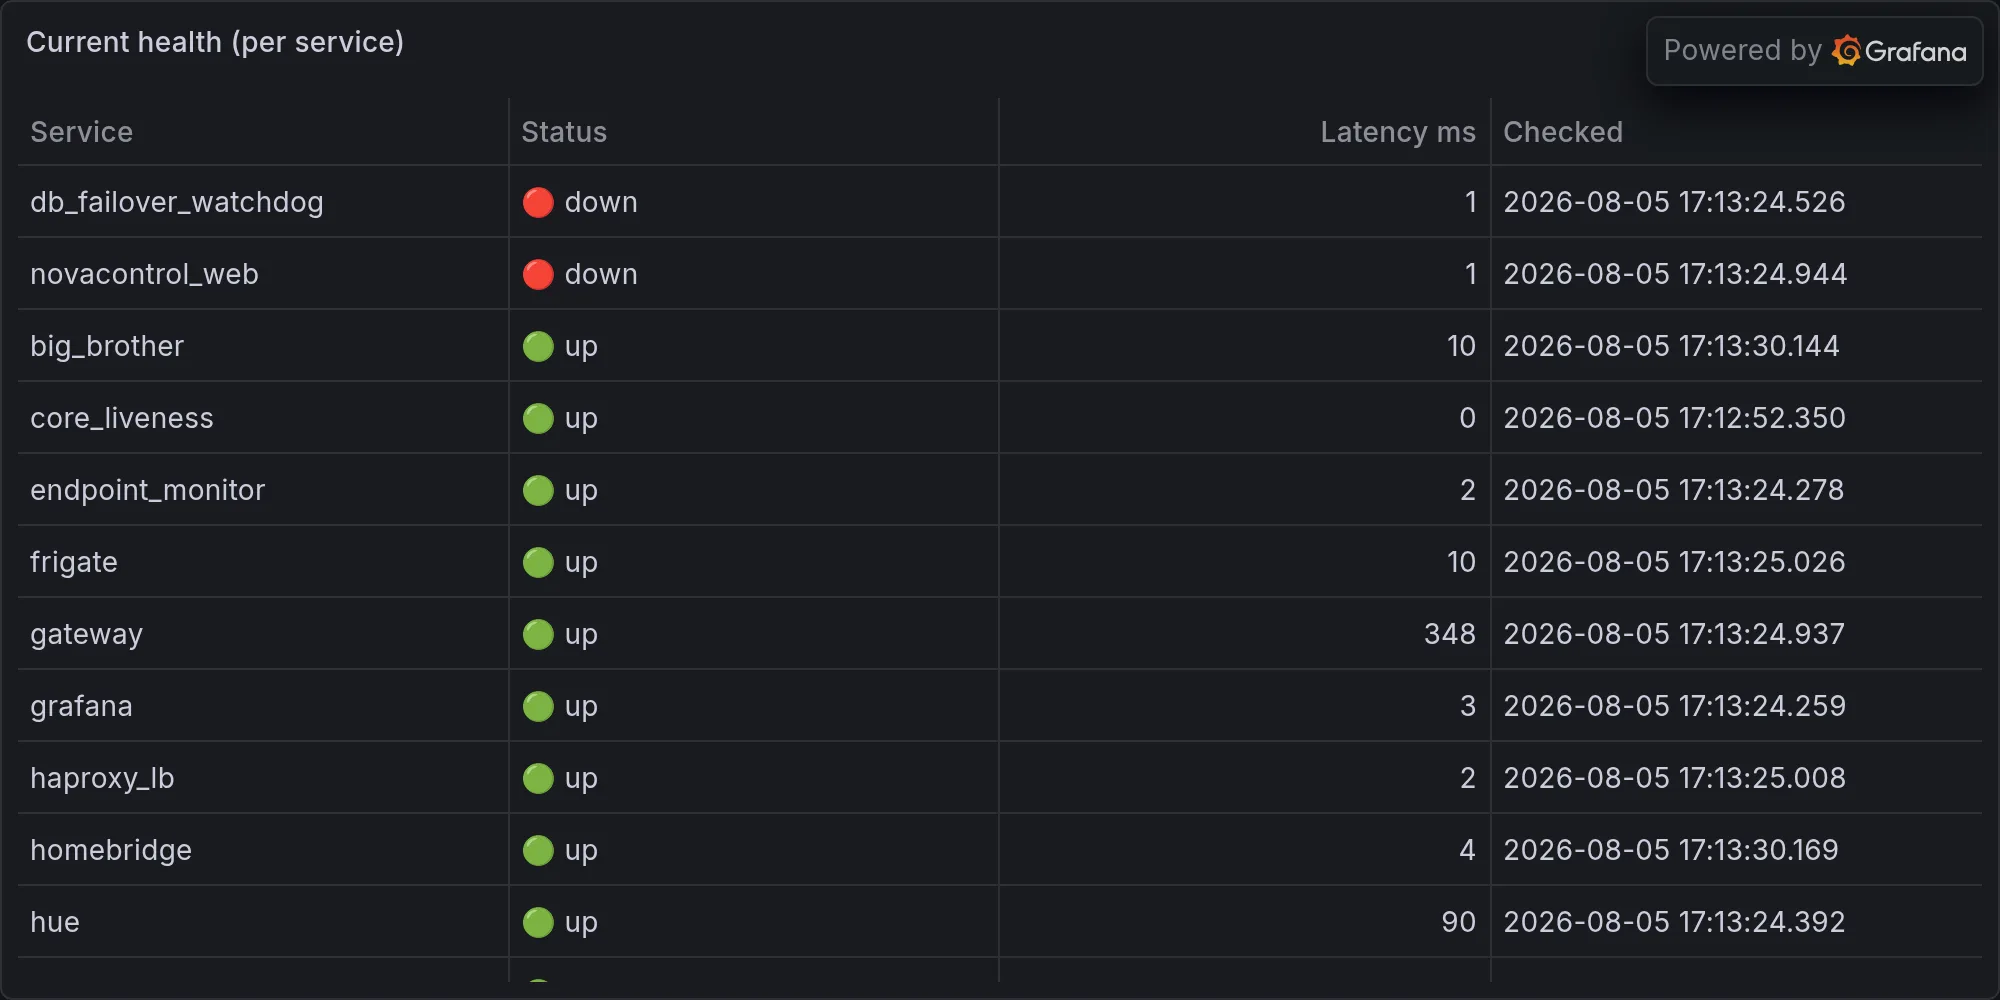
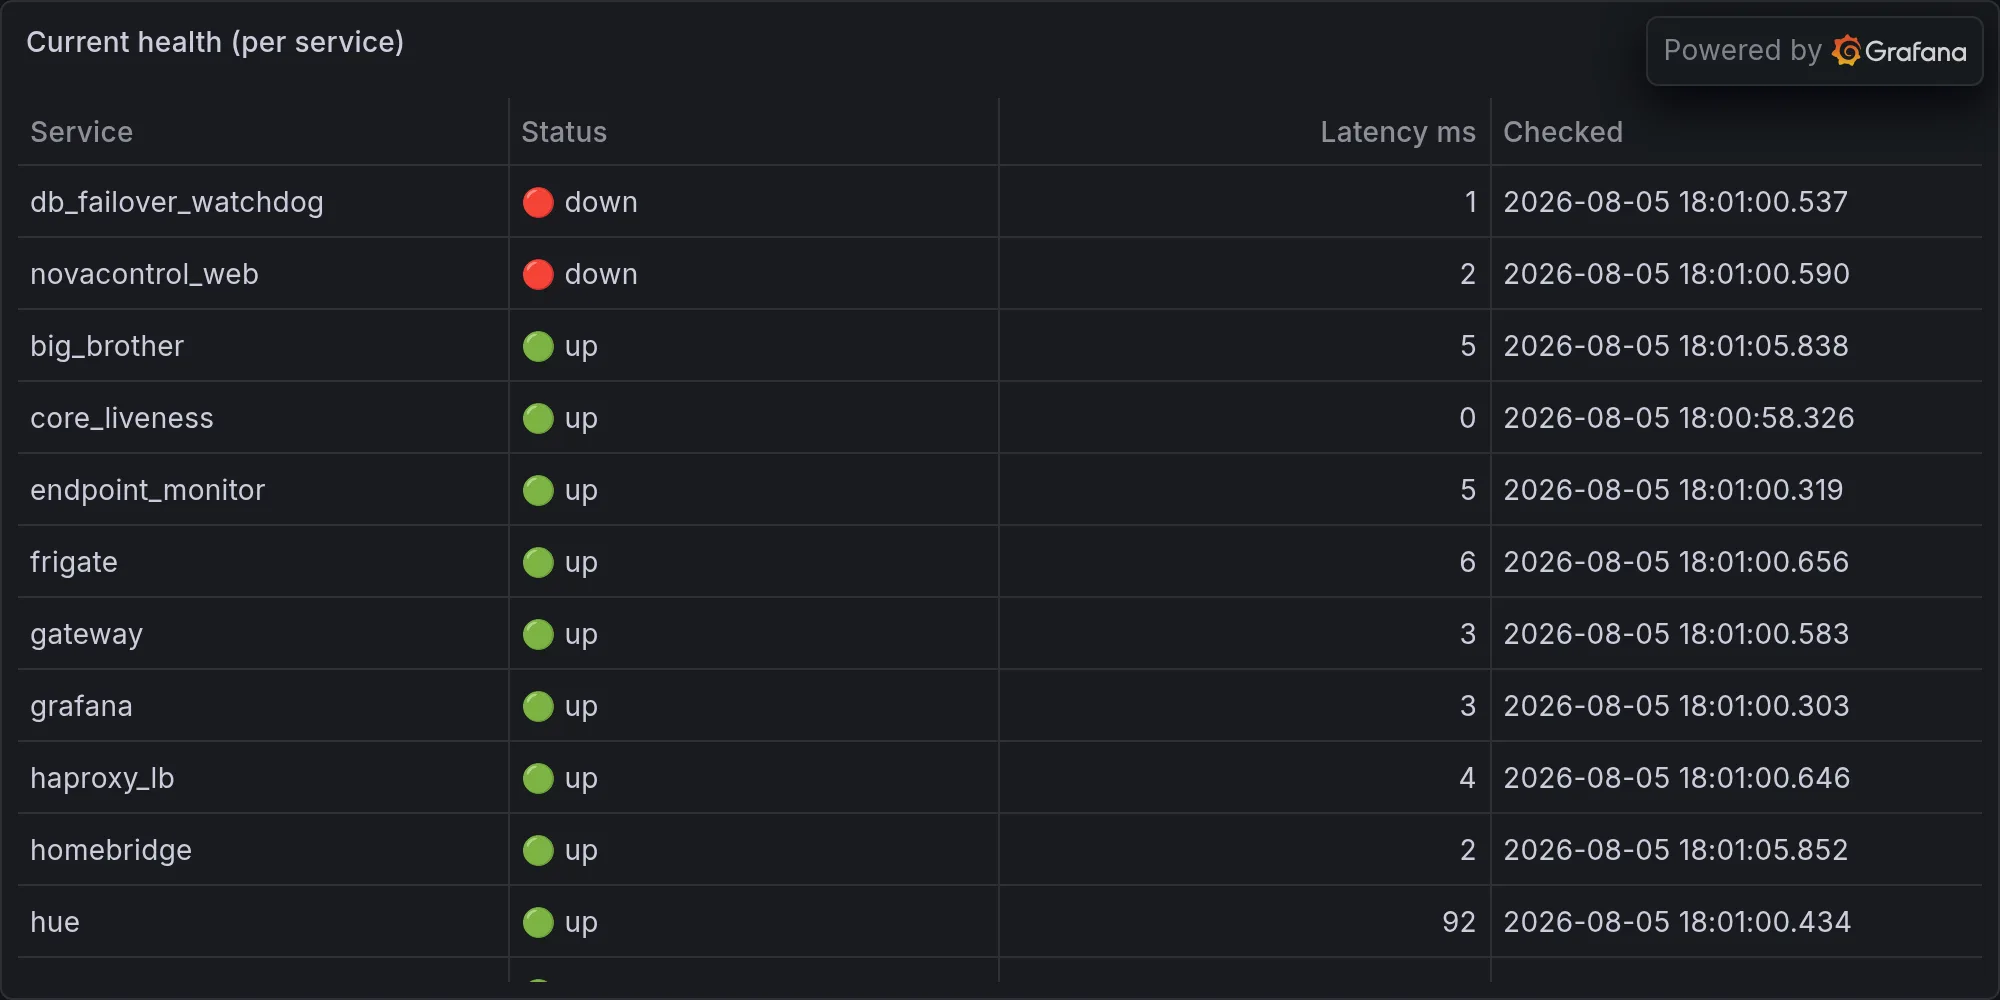
operations: 2026-08-05 — Not logged in · Please run /login

diff --git a/content/operations/2026-08-05-not-logged-in-please-run-login.md b/content/operations/2026-08-05-not-logged-in-please-run-login.md
@@ -1,14 +1,22 @@
 ---
 title: "Not logged in · Please run /login"
-date: 2026-08-05T06:00:00-07:00
+date: 2026-08-05T18:01:12-07:00
 draft: false
 categories: ["operations"]
-tags: ["memories", "weird", "top10", "ingest", "sarcasm"]
-description: "Nova's top 10 weirdest memories ingested in the last 12 hours."
+tags: ["ops", "infrastructure", "daily", "hue", "lutron", "snmp", "sarcasm"]
+description: "Nova's daily ops report — what broke, what worked, and what she's complaining about."
 cover:
   image: "/images/operations/2026-08-05-not-logged-in-please-run-login.webp"
-  alt: "Top 10 weirdest memories"
+  alt: "Daily infrastructure ops"
   relative: false
 ---
 
+*Published Wednesday, August 05, 2026 at 06:01 PM PT*
+
 Not logged in · Please run /login
+
+---
+
+**Fleet health at publish time:**
+
+![Current fleet health](/images/operations/2026-08-05-rando-ops-fleet-health.webp)
